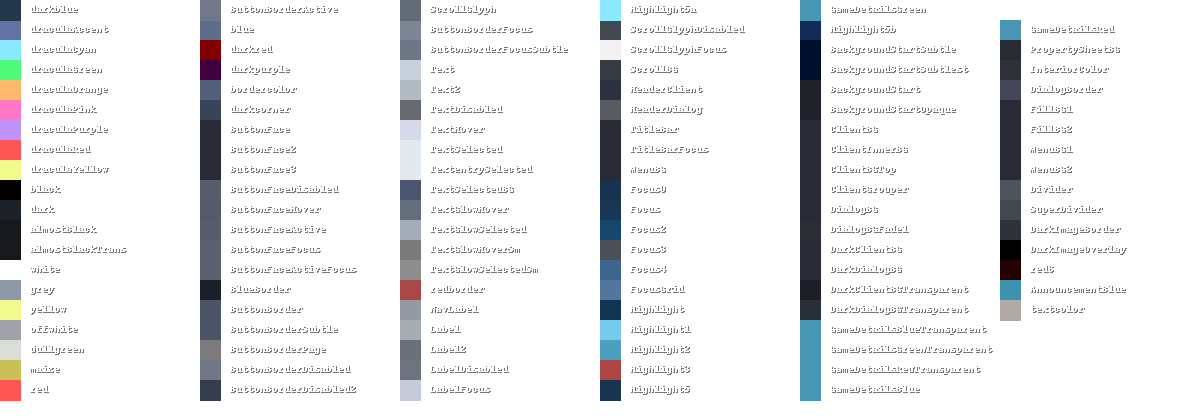
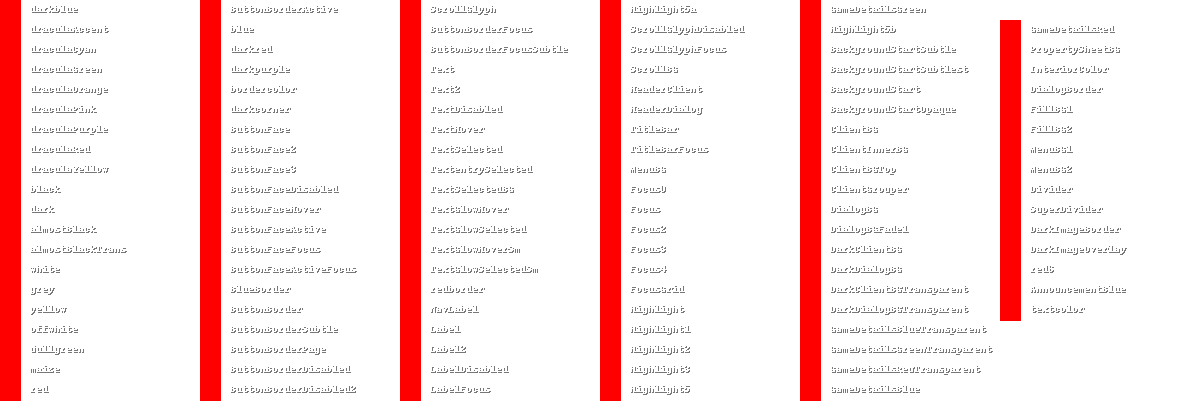
parse steam styles need to investigate values which might be unchanged by parse otherwise this aspect is mostly done

diff --git a/pywalsteam/template_mod.py b/pywalsteam/template_mod.py
@@ -5,70 +5,41 @@ import math
 from rich import print
 from PIL import Image, ImageDraw, ImageColor
 
-# so far these are mapped for the beginning values in steam.styles
-# next will be mapping any lines with // comments
-#
-# some ideas:
-# right now we're looking at ranges, this becomes less relevant later in
-# the style doc. maybe mapping per-line-number in the future?
-# { line_number : { doc_var : mapped_color } }
-# pros: eliminates the need to parse, easy to read
-# cons: slight changes in source will avalanche
-#
-# maybe putting color mappings in a template yaml for easier readability & changing???
-# will look at this later ig
-
-class ColorMap():
-    def __init__(self, rgba_dict):
-        self.bg = rgba_dict["background"]
-        self.fg = rgba_dict["foreground"]
-        self.black = rgba_dict["color0"]
-        self.blue = rgba_dict["color4"]
-        self.green = rgba_dict["color2"]
-        self.cyan = rgba_dict["color6"]
-        self.red = rgba_dict["color1"]
-        self.purple = rgba_dict["color5"]
-        self.yellow = rgba_dict["color3"]
-        self.lblue = rgba_dict["color12"]
-        self.lgreen = rgba_dict["color10"]
-        self.lcyan = rgba_dict["color14"]
-        self.lred = rgba_dict["color9"]
-        self.lpurple = rgba_dict["color14"]
-        self.lyellow = rgba_dict["color11"]
-        self.lgray = rgba_dict["color7"]
-
-def parse_template(rgba_dict, path):
+def parse_steam_styles(rgba_dict, path):
     """turn color values from steam.styles into a dictionary"""
     with open(path + "/resource/styles/steam.styles", "r") as f:
         template = f.readlines()
-    
+
     parsed_template = list()
     for i in template:
         # some entries are formatted without spaces
-        val = re.findall('[A-z].+=[\s|"]\d.+\d.+\d.+\d.+["]',i)
+        val = re.findall('[A-z].+=[\s|"]\d.+\d.+\d.+\d.+["]', i)
         if len(val) > 0:
             parsed_template.append(val)
             continue
         # other entries are formatted with many spaces
-        val2 = re.findall('[A-z]+\s+=\s+["]\d.+\d.+\d.+\d.+["]\\n',i)
+        val2 = re.findall('[A-z]+\s+=\s+["]\d.+\d.+\d.+\d.+["]\\n', i)
         if len(val2) > 0:
             parsed_template.append(val2)
- 
+
     parsed_template_dict = dict()
     for i in parsed_template:
-        items = i[0].replace('"','').replace("\t",' ').strip("\n").split("=")
+        items = i[0].replace('"', "").replace("\t", " ").strip("\n").split("=")
         key = items[0].strip()
-        value = items[1].strip().split(' ')
-        value = [ i for i in value if i.isdigit() ]
-        parsed_template_dict[key] = [ int(i) for i in value ]
+        value = items[1].strip().split(" ")
+        value = [i for i in value if i.isdigit()]
+        parsed_template_dict[key] = [int(i) for i in value]
 
     return parsed_template_dict
 
+
 def preview_colorset(template_color_dict):
-    """outputs an table image of scraped RGBA values (in RGB)"""
+    """outputs a table image of scraped RGBA values (in RGB)"""
     color_dict = dict()
-    for i, (k,v) in enumerate(template_color_dict.items()):
-        color_dict[k] = ImageColor.getrgb("rgb("+str(v[0:3]).strip("[]").replace(" ","")+")")
+    for i, (k, v) in enumerate(template_color_dict.items()):
+        color_dict[k] = ImageColor.getrgb(
+            "rgb(" + str(v[0:3]).strip("[]").replace(" ", "") + ")"
+        )
 
     max_per_col = 20
     col_len = 200
@@ -80,87 +51,59 @@ def preview_colorset(template_color_dict):
     draw = ImageDraw.Draw(img)
 
     for i, (k, v) in enumerate(color_dict.items()):
-        a, b, c, d, = 0, 0 + (i+1)%max_per_col * 20, 20, 20 + (i+1)%max_per_col * 20 
+        a, b, c, d, = (
+            0,
+            0 + (i + 1) % max_per_col * 20,
+            20,
+            20 + (i + 1) % max_per_col * 20,
+        )
         # when reach max per column, create new column
-        if (i/max_per_col) >= 1:
-            a, c = a + (col_len * math.floor(i/max_per_col)), c + (col_len * math.floor(i/max_per_col))
-        draw.rectangle((a,b,c,d), fill = v)
+        if (i / max_per_col) >= 1:
+            a, c = a + (col_len * math.floor(i / max_per_col)), c + (
+                col_len * math.floor(i / max_per_col)
+            )
+        draw.rectangle((a, b, c, d), fill=v)
         # drop shadow for readability
-        draw.text((a+31,d-16), k, fill="#00000088")
-        draw.text((a+30,d-17), k, fill="#ffffff")
+        draw.text((a + 31, d - 16), k, fill="#00000088")
+        draw.text((a + 30, d - 17), k, fill="#ffffff")
 
     img.save("test.png")
 
-def gen_lines_list(color_dict):
-    """transform color dict into writeable template lines"""
 
-    gen_color_list = [
-        f'      {k}     =   "{v[0]} {v[1]} {v[2]} {v[3]}"\n'
-        for k, v in color_dict.items()
-    ]
+def gen_lines_dict(color_dict):
+    """transform modified color dict into writeable template lines"""
+    lines_dict = dict()
+    for key, val in color_dict.items():
+        lines_dict[key] = f'      {key}     =   "{val[0]} {val[1]} {val[2]} {val[3]}"\n'
 
-    return gen_color_list
+    return lines_dict
 
 
-def modify_template(template, lines_list, lines_num):
-    """get appropriate template range and write list to template"""
-
-    # get lines to change
-    mod_list = list()
-    for i, v in enumerate(template[lines_num[0] : lines_num[1]]):
-        if v.__contains__("="):
-            mod_list.append(i + lines_num[0])
-
-    try:
-        # modify template directly
-        for i, v in enumerate(lines_list):
-            template[mod_list[i]] = v
-    except IndexError as e:
-        print(
-            f"index error!\nmod_list has {len(mod_list)} entries, while given lines list has {len(lines_list)} entries."
-        )
-        for i, v in enumerate(lines_list):
-            print(f"LINE {i+1}: {v}", end="")
-        for i in mod_list:
-            print(f"{i}")
-        for i in template[lines_num[0] : lines_num[1]]:
-            print(f"{i}", end="")
-        print(f"{e}")
-        sys.exit(0)
+def read_template(path) -> list:
+    """read template to lines"""
+    with open(path, "r") as f:
+        template = f.readlines()
 
     return template
 
 
-def color_mod(color_tup, intc=0, perc=0, alphac=0):
-    """manipulate color and transparency of rgba codes"""
+def modify_template(template, lines_dict):
+    """
+    modify a given template based on a dictionary of modified lines.
+    the key of lines_dict should reflect the line to be altered
+    within the template.
+    """
 
-    if intc != 0 and perc != 0:
-        print("invalid inputs")
-        return 0
+    for key, val in lines_dict.items():
+        for index, item in enumerate(template):
+            if item.__contains__(key):
+                template[index] = val
+                break
 
-    if perc != 0:
-        change = round((perc / 100) * 255)
-    else:
-        change = intc
+    return template
 
-    new_color = list()
 
-    for i in color_tup[0:3]:
-        val = i + change
-        if val > 255:
-            val = 255
-        elif val < 0:
-            val = 0
-        new_color.append(val)
-
-    if alphac != 0:
-        val = color_tup[3] + alphac
-        if val > 255:
-            val = 255
-        elif val < 0:
-            val = 0
-        new_color.append(val)
-    else:
-        new_color.append(color_tup[3])
-
-    return tuple(new_color)
+def write_template(template, path):
+    """write template to file"""
+    with open(path, "w") as f:
+        f.writelines(template)

diff --git a/pywalsteam/main.py b/pywalsteam/main.py
@@ -5,10 +5,26 @@ from rich import print
 
 
 def main():
+    # paths are correct
     valid_dirs = validate_paths()
+    # get back the color dict format we want from pywal
     _, rgba_dict, _ = parse_file(valid_dirs["pywal"])
-    pdt = parse_template(rgba_dict, valid_dirs["dracula"])
-    preview_colorset(pdt)
+    # parse out the default color keys/values from steam.styles
+    pt_dict = parse_steam_styles(rgba_dict, valid_dirs["dracula"])
+    # turn them all red so i can See
+    # for k, v in pt_dict.items():
+    #    pt_dict[k] = [255, 0, 0, 255]
+    # display them in a little table image
+    preview_colorset(pt_dict)
+    # format the changed values into writebale template lines
+    lines_dict = gen_lines_dict(pt_dict)
+    # fetch the template for r/w
+    steam_styles_path = valid_dirs["dracula"] + "/resource/styles/steam.styles"
+    template = read_template(steam_styles_path)
+    # modify the template with the color dict we made
+    modify_template(template, lines_dict)
+    # write the changes
+    write_template(template, steam_styles_path)
 
 
 if __name__ == "__main__":

diff --git a/pywalsteam/color_map.py b/pywalsteam/color_map.py
@@ -1,0 +1,18 @@
+class ColorMap:
+    def __init__(self, rgba_dict):
+        self.bg = rgba_dict["background"]
+        self.fg = rgba_dict["foreground"]
+        self.black = rgba_dict["color0"]
+        self.blue = rgba_dict["color4"]
+        self.green = rgba_dict["color2"]
+        self.cyan = rgba_dict["color6"]
+        self.red = rgba_dict["color1"]
+        self.purple = rgba_dict["color5"]
+        self.yellow = rgba_dict["color3"]
+        self.lblue = rgba_dict["color12"]
+        self.lgreen = rgba_dict["color10"]
+        self.lcyan = rgba_dict["color14"]
+        self.lred = rgba_dict["color9"]
+        self.lpurple = rgba_dict["color14"]
+        self.lyellow = rgba_dict["color11"]
+        self.lgray = rgba_dict["color7"]
